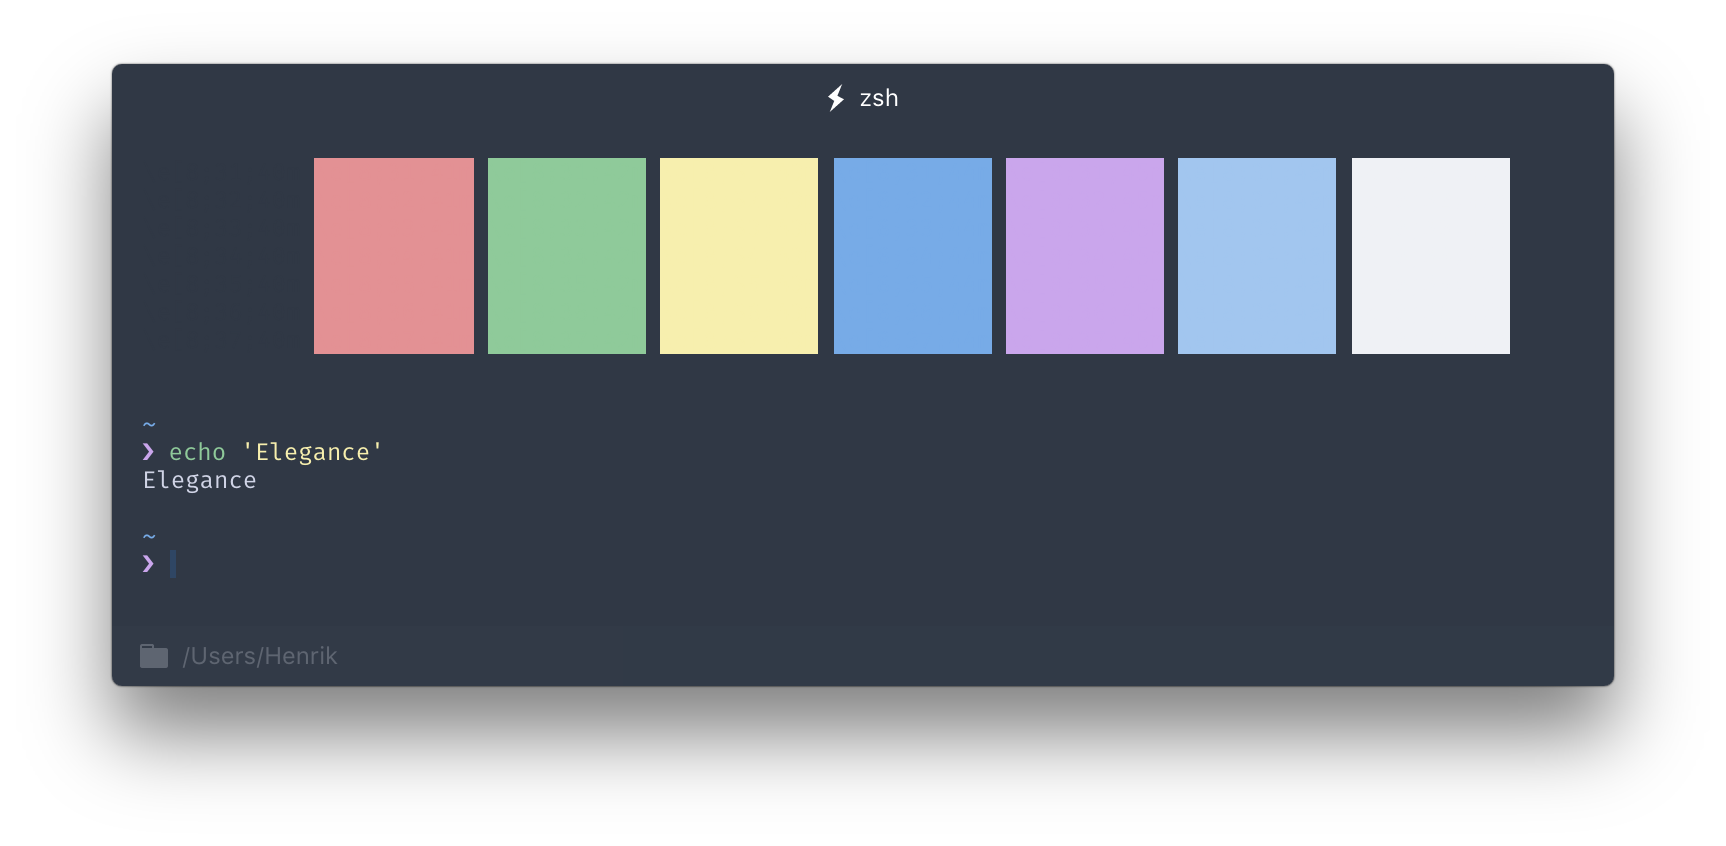
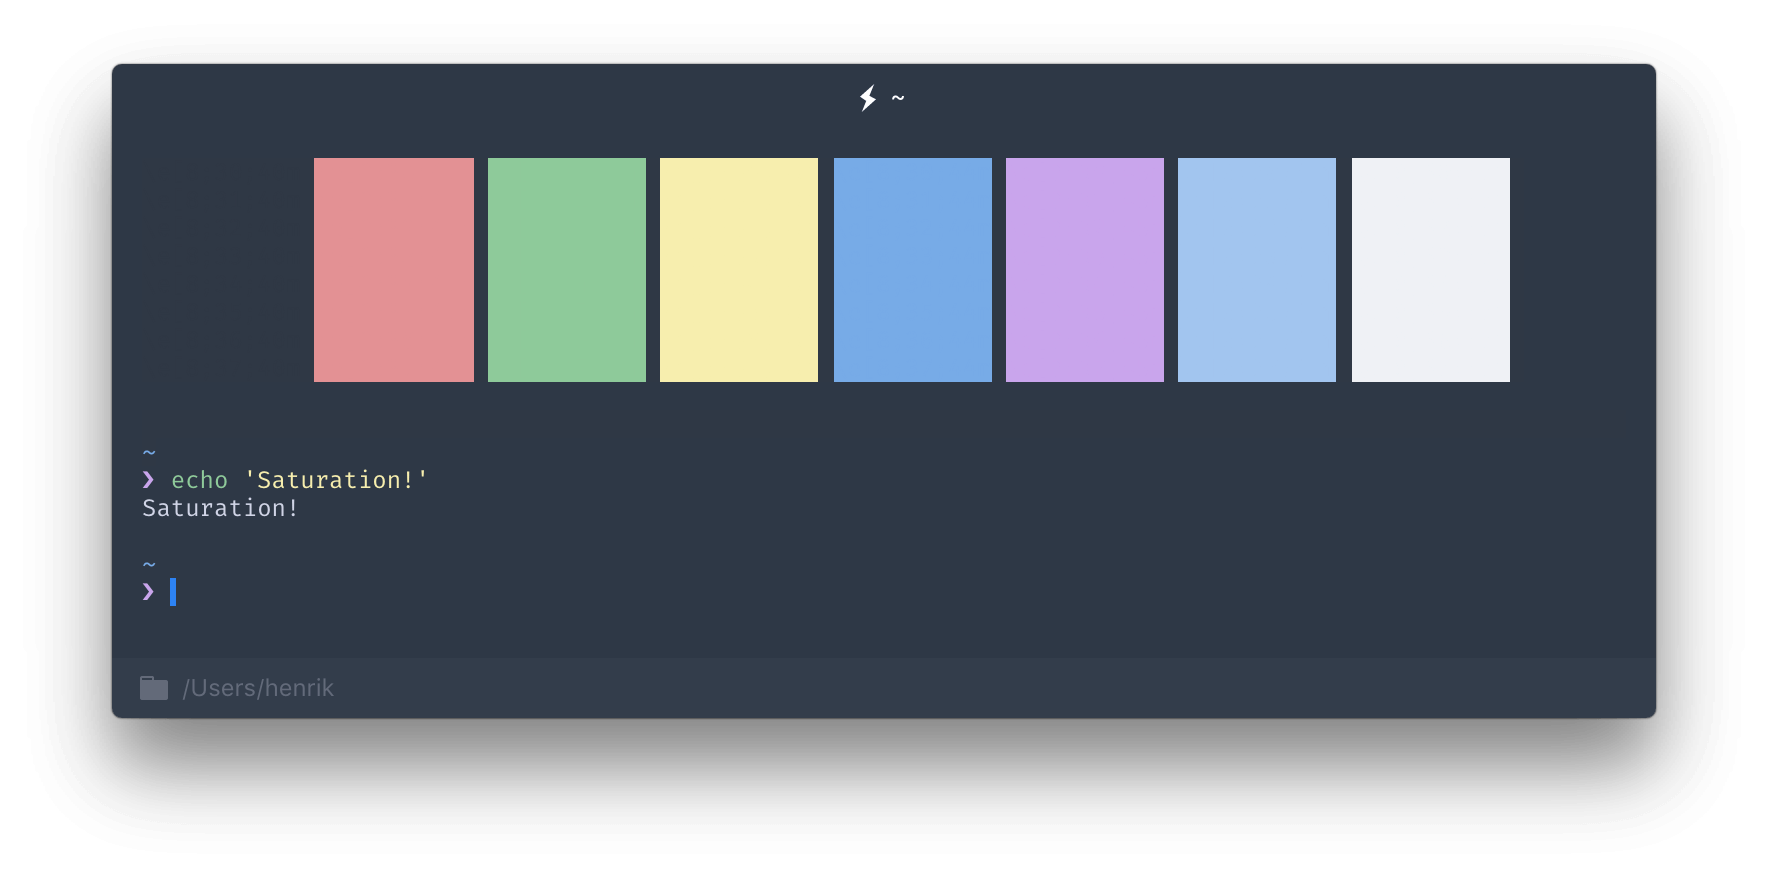
fix for latest hyper & updated screens

diff --git a/index.js b/index.js
@@ -234,15 +234,15 @@ exports.decorateConfig = config => {
 };
 
 // Hide traffic buttons
-exports.decorateBrowserOptions = defaults => {
-    const clean = Object.assign({ frame: false }, defaults);
-    delete clean.titleBarStyle;
-    return clean;
-};
+exports.decorateBrowserOptions = defaults => Object.assign({}, defaults, {
+    titleBarStyle: '',
+    transparent: true,
+    frame: false
+})
 
 // Current shell service
 const getService = (title) => {
-    const service = (title.split(' ')[0] === 'gulp' || title.split(' ')[0] === 'php' || title.split(' ')[0] === 'node' || title.split(' ')[0] === 'vim') ? title : 'shell';
+    const service = (title.split(' ')[1] === 'gulp' || title.split(' ')[1] === 'php' || title.split(' ')[1] === 'node' || title.split(' ')[1] === 'vim') ? title.split(' ')[1] : 'shell';
     return service;
 };
 
@@ -332,45 +332,4 @@ exports.decorateTerm = (Term, { React }) => {
             }
         };
     };
-};
-
-let curPid;
-let curCwd;
-let uids = {};
-
-// Current shell cwd
-const setCwd = (pid) =>
-    exec(`lsof -p ${pid} | grep cwd | tr -s ' ' | cut -d ' ' -f9-`, (err, cwd) => {
-        cwd = cwd.trim();
-        curCwd = cwd;
-
-        store.dispatch({
-            type: 'SESSION_SET_CWD',
-            cwd
-        });
-});
-
-// Sessions
-exports.middleware = (store) => (next) => (action) => {
-    switch (action.type) {
-        case 'SESSION_PTY_DATA':
-            if (curPid && uids[action.uid] === curPid) setCwd(curPid);
-            break;
-        case 'SESSION_ADD':
-            uids[action.uid] = action.pid;
-            curPid = action.pid;
-            setCwd(curPid);
-            break;
-        case 'SESSION_SET_ACTIVE':
-            curPid = uids[action.uid];
-            setCwd(curPid);
-            break;
-        case 'SESSION_PTY_EXIT':
-            delete uids[action.uid];
-            break;
-        case 'SESSION_USER_EXIT':
-            delete uids[action.uid];
-            break;
-    }
-    next(action);
 };
